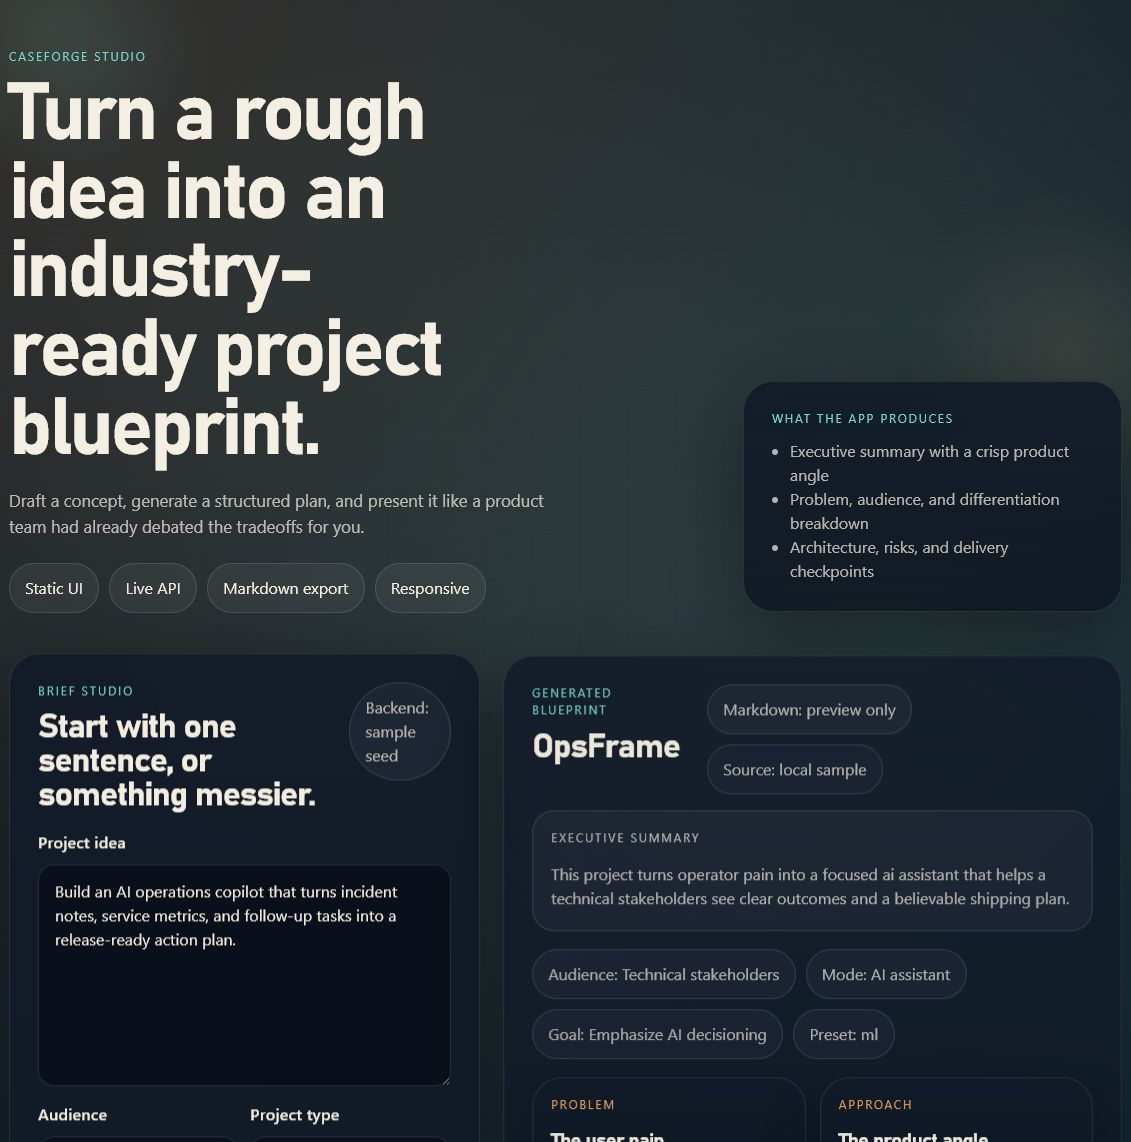
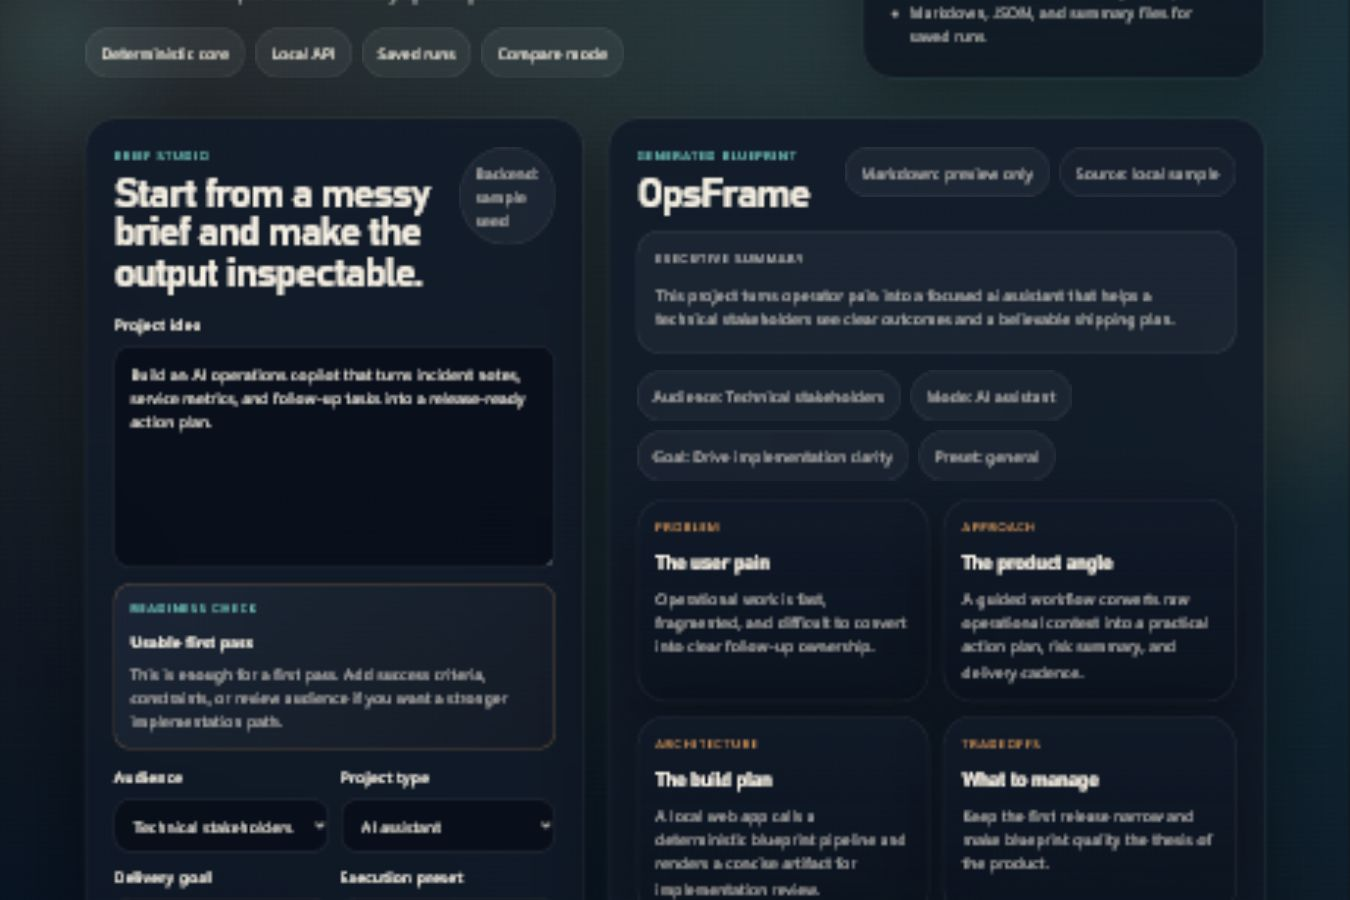
Polish CaseForge reviewer demo

diff --git a/caseforge/web/app.js b/caseforge/web/app.js
@@ -17,6 +17,13 @@ const insightRow = document.getElementById('insight-row');
 const sectionGrid = document.getElementById('section-grid');
 const sectionTemplate = document.getElementById('section-template');
 const previewButton = document.getElementById('preview-button');
+const forgeButton = document.getElementById('forge-button');
+const sampleButton = document.getElementById('sample-button');
+const copyBriefButton = document.getElementById('copy-brief-button');
+const copyMarkdownButton = document.getElementById('copy-markdown-button');
+const readinessCard = document.getElementById('readiness-card');
+const readinessTitle = document.getElementById('readiness-title');
+const readinessCopy = document.getElementById('readiness-copy');
 const refreshRecentButton = document.getElementById('refresh-recent-button');
 const recentList = document.getElementById('recent-list');
 const compareSelectionLabel = document.getElementById('compare-selection');
@@ -106,11 +113,42 @@ function loadPreset(name) {
 
 function updateMeta() {
   const words = tokenize(projectBrief.value).length;
-  briefMeta.textContent = `${words} word${words === 1 ? '' : 's'} - ${words < 20 ? 'add more context' : 'ready for a first pass'}.`;
+  const state = getBriefReadiness(words);
+  briefMeta.textContent = `${words} word${words === 1 ? '' : 's'} - ${state.meta}.`;
+  readinessCard.dataset.state = state.kind;
+  readinessTitle.textContent = state.title;
+  readinessCopy.textContent = state.copy;
 }
 
 function tokenize(text) {
   return text.trim().split(/\s+/).filter(Boolean);
+}
+
+function getBriefReadiness(words) {
+  if (words < 8) {
+    return {
+      kind: 'low',
+      title: 'Too thin for a useful blueprint',
+      meta: 'add the user, input, and expected artifact',
+      copy: 'A one-line idea can be previewed, but persisted blueprints work better with at least a user, input source, output artifact, and review constraint.',
+    };
+  }
+
+  if (words < 20) {
+    return {
+      kind: 'medium',
+      title: 'Usable first pass',
+      meta: 'ready, but more context will improve sections',
+      copy: 'This is enough for a first pass. Add success criteria, constraints, or review audience if you want a stronger implementation path.',
+    };
+  }
+
+  return {
+    kind: 'high',
+    title: 'Ready for a serious pass',
+    meta: 'ready for generation',
+    copy: 'The brief has enough context for problem framing, architecture notes, tradeoffs, and a delivery path.',
+  };
 }
 
 function readStoredValue(key) {
@@ -196,12 +234,15 @@ function renderDossier(payload, meta = {}) {
 
 async function requestDossier(endpoint, messages) {
   const payload = buildPayload();
-  if (!payload.brief) {
-    setStatus('Enter a project idea first.', 'warning');
+  const words = tokenize(payload.brief).length;
+  if (words < 8) {
+    setStatus('Add a little more context before generating: user, input material, and expected output.', 'warning');
+    projectBrief.focus();
     return;
   }
 
   writeStoredValue('caseforge:lastBrief', payload.brief);
+  setBusy(true);
   setStatus(messages.pending, 'pending');
   transportChip.textContent = 'Backend: connecting';
 
@@ -231,7 +272,21 @@ async function requestDossier(endpoint, messages) {
     markdownChip.textContent = 'Markdown: unavailable';
     markdownPath.textContent = 'No export path available while the backend is unavailable.';
     setStatus(`${messages.failure} ${error.message}`, 'warning');
+  } finally {
+    setBusy(false);
+    renderCompareSelectionState();
   }
+}
+
+function setBusy(isBusy) {
+  document.body.classList.toggle('is-busy', isBusy);
+  [forgeButton, previewButton, sampleButton, copyBriefButton, copyMarkdownButton, refreshRecentButton, compareButton, clearCompareButton].forEach(
+    (button) => {
+      if (button) {
+        button.disabled = isBusy;
+      }
+    },
+  );
 }
 
 function buildLocalDossier(payload) {
@@ -336,7 +391,7 @@ function renderRecentDossiers(items) {
   if (!items.length) {
     const empty = document.createElement('p');
     empty.className = 'recent-empty';
-    empty.textContent = 'No saved blueprints yet.';
+    empty.textContent = 'No saved blueprints yet. Use Forge blueprint to create a persisted run, or Preview only to test the pipeline without writing files.';
     recentList.appendChild(empty);
     return;
   }
@@ -627,16 +682,16 @@ document.querySelectorAll('.preset').forEach((button) => {
   button.addEventListener('click', () => loadPreset(button.dataset.preset));
 });
 
-document.getElementById('sample-button').addEventListener('click', () => {
+sampleButton.addEventListener('click', () => {
   renderDossier(buildLocalDossier(buildPayload()), { source: 'local sample' });
   setStatus('Sample blueprint loaded.', 'success');
 });
 
-document.getElementById('copy-brief-button').addEventListener('click', () => {
+copyBriefButton.addEventListener('click', () => {
   copyText(projectBrief.value.trim(), 'Brief copied to clipboard.');
 });
 
-document.getElementById('copy-markdown-button').addEventListener('click', () => {
+copyMarkdownButton.addEventListener('click', () => {
   copyText(markdownPath.textContent.trim(), 'Markdown path copied.');
 });
 

diff --git a/caseforge/web/styles.css b/caseforge/web/styles.css
@@ -67,8 +67,17 @@ button {
   transition: transform 180ms ease, background-color 180ms ease, border-color 180ms ease, box-shadow 180ms ease;
 }
 
+button:disabled {
+  cursor: not-allowed;
+  opacity: 0.58;
+}
+
 button:hover {
   transform: translateY(-1px);
+}
+
+button:disabled:hover {
+  transform: none;
 }
 
 button:active {
@@ -206,6 +215,41 @@ button:active {
   gap: 16px;
 }
 
+.readiness-card {
+  display: grid;
+  gap: 8px;
+  padding: 15px 16px;
+  border-radius: var(--radius-md);
+  border: 1px solid rgba(159, 184, 255, 0.24);
+  background:
+    linear-gradient(135deg, rgba(159, 184, 255, 0.11), rgba(255, 255, 255, 0.035)),
+    rgba(4, 10, 18, 0.46);
+}
+
+.readiness-card[data-state='high'] {
+  border-color: rgba(121, 214, 201, 0.38);
+  background:
+    linear-gradient(135deg, rgba(121, 214, 201, 0.14), rgba(255, 255, 255, 0.035)),
+    rgba(4, 10, 18, 0.46);
+}
+
+.readiness-card[data-state='medium'] {
+  border-color: rgba(242, 168, 95, 0.38);
+}
+
+.readiness-card[data-state='low'] {
+  border-color: rgba(246, 210, 138, 0.34);
+}
+
+.readiness-card strong {
+  color: var(--text);
+}
+
+.readiness-card p:last-child {
+  margin: 0;
+  color: var(--text-muted);
+}
+
 .field {
   display: grid;
   gap: 10px;
@@ -283,6 +327,10 @@ select:focus {
   background: linear-gradient(135deg, var(--accent), #f3c37d);
   color: #20130b;
   font-weight: 700;
+}
+
+body.is-busy .primary {
+  box-shadow: 0 0 0 4px rgba(242, 168, 95, 0.09), 0 0 32px rgba(242, 168, 95, 0.14);
 }
 
 .secondary {

diff --git a/caseforge/web/index.html b/caseforge/web/index.html
@@ -18,16 +18,16 @@
   <header class="hero shell">
     <div class="hero-copy">
       <p class="eyebrow">CaseForge Studio</p>
-      <h1>Turn a rough idea into an industry-ready project blueprint.</h1>
+      <h1>Turn a rough idea into a review-ready implementation blueprint.</h1>
       <p class="lede">
-        Draft a concept, generate a structured plan, and present it like a product team had already
-        debated the tradeoffs for you.
+        Draft a concept, generate a structured plan, compare saved runs, and keep the deterministic
+        output visible before any optional provider refinement.
       </p>
       <div class="hero-badges" aria-label="Key features">
-        <span>Static UI</span>
-        <span>Live API</span>
-        <span>Markdown export</span>
-        <span>Responsive</span>
+        <span>Deterministic core</span>
+        <span>Local API</span>
+        <span>Saved runs</span>
+        <span>Compare mode</span>
       </div>
     </div>
 
@@ -37,6 +37,7 @@
         <li>Executive summary with a crisp product angle</li>
         <li>Problem, audience, and differentiation breakdown</li>
         <li>Architecture, risks, and delivery checkpoints</li>
+        <li>Markdown, JSON, and summary files for saved runs</li>
       </ul>
     </aside>
   </header>
@@ -46,7 +47,7 @@
       <div class="panel-header">
         <div>
           <p class="card-label">Brief studio</p>
-          <h2>Start with one sentence, or something messier.</h2>
+          <h2>Start from a messy brief and make the output inspectable.</h2>
         </div>
         <span class="status-chip" id="transport-chip">Backend: idle</span>
       </div>
@@ -58,10 +59,21 @@
             id="project-brief"
             name="projectBrief"
             rows="8"
+            minlength="20"
             placeholder="Example: Build an AI operations copilot that turns incident notes, service metrics, and follow-up tasks into a release-ready action plan."
             required
           ></textarea>
         </label>
+
+        <div class="readiness-card" id="readiness-card" aria-live="polite">
+          <div>
+            <p class="card-label">Readiness check</p>
+            <strong id="readiness-title">Add more context</strong>
+          </div>
+          <p id="readiness-copy">
+            A stronger brief names the user, input material, output artifact, and one review constraint.
+          </p>
+        </div>
 
         <div class="field-grid">
           <label class="field" for="audience">
@@ -122,7 +134,7 @@
         </div>
 
         <div class="actions">
-          <button type="submit" class="primary">Forge blueprint</button>
+          <button type="submit" class="primary" id="forge-button">Forge blueprint</button>
           <button type="button" id="preview-button" class="secondary">Preview only</button>
           <button type="button" id="sample-button" class="secondary">Load sample</button>
           <button type="button" id="copy-brief-button" class="ghost">Copy brief</button>
@@ -130,7 +142,7 @@
 
         <p class="helper" id="brief-meta">0 words - ready for a first pass.</p>
         <p class="status-line" id="status" role="status" aria-live="polite">
-          Enter a project idea, then generate a blueprint.
+          Load a sample, preview without saving, or create a persisted blueprint.
         </p>
       </form>
 
@@ -143,7 +155,7 @@
           <button type="button" id="refresh-recent-button" class="ghost compact">Refresh</button>
         </div>
         <p class="recent-helper">
-          Compare runs by score, preset, provider path, and recommendation before opening a full blueprint.
+          Compare saved outputs by score, preset, provider path, and recommendation before opening a full blueprint.
         </p>
         <div class="recent-list" id="recent-list">
           <p class="recent-empty">No saved blueprints yet.</p>

diff --git a/caseforge/providers.py b/caseforge/providers.py
@@ -50,7 +50,7 @@ class OpenAIResponsesProvider(DossierProvider):
             raise ProviderError("OPENAI_API_KEY is not set; falling back to deterministic mode.")
 
         model = brief.provider_model or os.getenv("OPENAI_MODEL", "gpt-5-mini")
-        endpoint = os.getenv("OPENAI_BASE_URL", "https://api.openai.com/v1/responses")
+        endpoint = os.getenv("OPENAI_RESPONSES_ENDPOINT") or os.getenv("OPENAI_BASE_URL", "https://api.openai.com/v1/responses")
         payload = self._build_payload(brief, result, model)
 
         request = Request(

diff --git a/README.md b/README.md
@@ -37,6 +37,18 @@ Brief
 
 The deterministic path is the primary product path. The live provider is an enhancement layer, not a dependency for the base workflow.
 
+## Reviewer Demo Path
+
+The fastest way to evaluate the project is through the local web app:
+
+1. Start the server with `python -m caseforge serve --host 127.0.0.1 --port 8127`.
+2. Open `http://127.0.0.1:8127`.
+3. Load one preset brief and use **Preview only** to inspect the deterministic output without writing files.
+4. Use **Forge blueprint** to create a persisted run under `outputs/<slug>/`.
+5. Open the recent-run panel, select two saved runs, and compare score, preset, provider path, strengths, and risks.
+
+The demo is designed to show product behavior, not just a CLI command: input readiness feedback, backend status, saved-run history, comparison, export paths, and fallback messaging are visible in one screen.
+
 ## Demo Screenshot
 
 ![CaseForge Studio local web app](docs/screenshots/web-app.png)
@@ -96,7 +108,8 @@ Supported environment variables:
 
 - `OPENAI_API_KEY`
 - `OPENAI_MODEL`
-- `OPENAI_BASE_URL`
+- `OPENAI_RESPONSES_ENDPOINT`
+- `OPENAI_BASE_URL` remains supported as a legacy alias and must point to the full Responses API endpoint.
 
 See [.env.example](.env.example) for the default shape.
 
@@ -200,7 +213,7 @@ caseforge-studio/
 - The OpenAI overlay path should be used only with deliberate credential handling.
 - The default runtime is still a local stdlib HTTP server, not a multi-tenant hosted deployment stack.
 
-## Next Steps
+## Roadmap
 
 - Add a clean deployment wrapper around the local server path
 - Capture one intentional live-provider blueprint artifact

diff --git a/docs/screenshots/README.md b/docs/screenshots/README.md
@@ -5,6 +5,7 @@ This folder stores public-safe screenshots used by the GitHub README and portfol
 Current capture:
 
 - `web-app.png`: local CaseForge Studio web app with the default sample brief and generated blueprint preview.
+- `web-app-mobile.png`: narrow viewport check for the same reviewer flow.
 
 Refresh flow:
 
@@ -12,4 +13,4 @@ Refresh flow:
 python -m caseforge serve --host 127.0.0.1 --port 8127
 ```
 
-Open `http://127.0.0.1:8127`, wait for the sample blueprint to render, and capture the main page without local file paths or generated output directories visible.
+Open `http://127.0.0.1:8127`, wait for the sample blueprint to render, and capture the workspace without local file paths or generated output directories visible.